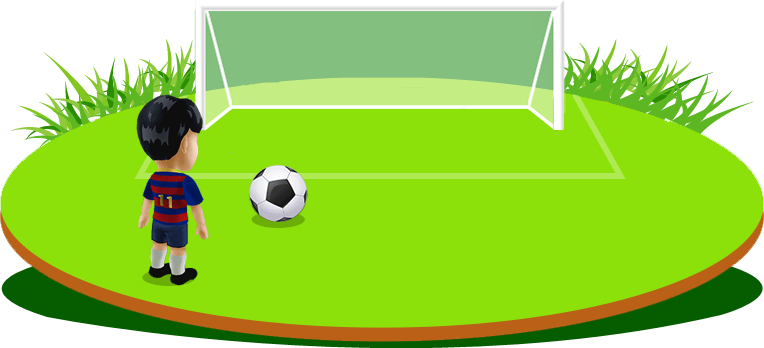
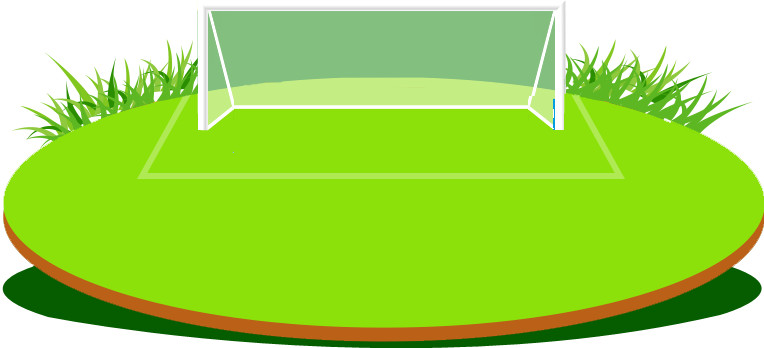
射门

diff --git a/worldCup.html b/worldCup.html
@@ -15,8 +15,17 @@
     <div class="common_w world-main-con">
         <div class="jiuqiu">
             <div style="position: relative;height: 100%">
+                <div class="jinqiu_shoot" style="display: block;">
+                    <img src="images/shootStart.png" alt="射门">
+                </div>
+                <!--<div class="jinqiu_shoot">-->
+                <!--<img src="images/shootJin.gif" alt="射门">-->
+                <!--</div>-->
+                <!--<div class="jinqiu_shoot">-->
+                <!--<img src="images/shootMeiJin.gif" alt="射门">-->
+                <!--</div>-->
                 <a href="javascript:void(0);" class="jinqiu_btn">
-                    <p>今日踢球剩余次数：3次</p>
+                    <p>今日踢球剩余次数：<span id="tiqiu_num">3</span>次</p>
                 </a>
             </div>
         </div>
@@ -210,6 +219,19 @@
         </ul>
     </div>
 </div>
+<div class="wrapper_layer" id="wrapper_layer">
+    <div class="wrapper">
+        <span class="close" id="close">×</span>
+        <div class="text-center  imgWrapper" style="margin-top: 10px;">
+            <img src="images/p_laugh.png" alt="">
+        </div>
+        <p class="text-center tips">恭喜你，球进了！</p>
+        <div class="user-operarion">
+            <a href="#" class="uo_btn">开始抽奖</a>
+            <a href="#" class="uo_btn">去下单</a>
+        </div>
+    </div>
+</div>
 <script>
     var mySwiper = new Swiper('.swiper-container', {
         autoplay: true,//可选选项，自动滑动
@@ -234,6 +256,70 @@
             prize_layer.hide()
         })
     })
+
+    $('#close').click(function () {
+        $(this).closest('#wrapper_layer').hide()
+    })
+
+    var goal_desc = [{text: '恭喜你，球进了！', imgUrl: 'images/p_laugh.png'}, {
+        text: '很遗憾，没有进球',
+        imgUrl: 'images/p_cry.png'
+    }];
+    // 点击踢球
+    $('.jinqiu_btn').click(function () {
+        // 获取踢球剩余次数
+        var tiqiu_num = $('#tiqiu_num').text();
+        if (tiqiu_num == 0) {
+            // 弹出提示显示
+            $('#tiqiu_num').text(tiqiu_num);
+            return false;
+        }
+        // 两种情况,进球和没进球的概率
+        var a = ['goal', 'no_goal'],
+            b = [0.3, 0.7],
+            is_goal = random(a, b);
+        imgReload();
+        if (is_goal == 'goal') {
+            $('.jinqiu_shoot').find('img').attr('src', 'images/shootJin.gif')
+            // 弹出进球提示框
+            setTimeout(function () {
+                $('#wrapper_layer').show().find('.imgWrapper img').attr('src', goal_desc[0].imgUrl)
+                    .end().find('.tips').text(goal_desc[0].text)
+            }, 1700)
+        } else {
+            $('.jinqiu_shoot').find('img').attr('src', 'images/shootMeiJin.gif')
+            // 弹出没进球提示框
+            setTimeout(function () {
+                $('#wrapper_layer').show().find('.imgWrapper img').attr('src', goal_desc[1].imgUrl)
+                    .end().find('.tips').text(goal_desc[1].text)
+            }, 1700)
+        }
+        tiqiu_num--;
+        $('#tiqiu_num').text(tiqiu_num);
+    })
+
+    function random(arr1, arr2) {
+        var sum = 0,
+            factor = 0,
+            random = Math.random();
+
+        for (var i = arr2.length - 1; i >= 0; i--) {
+            sum += arr2[i]; // 统计概率总和
+        }
+        random *= sum; // 生成概率随机数
+        for (var i = arr2.length - 1; i >= 0; i--) {
+            factor += arr2[i];
+            if (random <= factor)
+                return arr1[i];
+        }
+        return null;
+    }
+
+    function imgReload() {
+        var imgs = document.getElementsByTagName('img');
+        for (var i = 0; i < imgs.length; i++)
+            imgs[i].src = imgs[i].src;
+    }
 </script>
 </body>
 </html>

diff --git a/css/worldCup.css b/css/worldCup.css
@@ -1,7 +1,10 @@
 body {
   background: #7fc7f7; }
 
-.prize_layer, .rule_layer {
+.text-center {
+  text-align: center; }
+
+.prize_layer, .rule_layer, .wrapper_layer {
   display: none;
   width: 100%;
   height: 100%;
@@ -10,7 +13,54 @@ body {
   left: 0;
   right: 0;
   bottom: 0;
-  background: rgba(0, 0, 0, 0.3); }
+  background: rgba(0, 0, 0, 0.3);
+  z-index: 1; }
+
+.wrapper_layer .wrapper {
+  width: 400px;
+  padding: 10px;
+  border-radius: 10px;
+  background: #fff;
+  position: relative;
+  left: 50%;
+  top: 50%;
+  margin-left: -210px;
+  transform: translateY(-50%); }
+  .wrapper_layer .wrapper .user-operarion {
+    margin-bottom: 20px;
+    text-align: center; }
+    .wrapper_layer .wrapper .user-operarion .uo_btn {
+      display: inline-block;
+      font-size: 24px;
+      padding: 5px 40px;
+      border-radius: 24px;
+      background: #44980e;
+      box-shadow: 0px 5px 0px #317307;
+      color: #ffffff;
+      margin-left: 15px; }
+      .wrapper_layer .wrapper .user-operarion .uo_btn:first-child {
+        margin-left: 0;
+        background: #ffd923;
+        box-shadow: 0px 5px 0px #feb70b;
+        color: #564000; }
+  .wrapper_layer .wrapper .tips {
+    font-size: 24px;
+    color: #317307;
+    margin: 28px 0; }
+  .wrapper_layer .wrapper .close {
+    background: #317307;
+    font-size: 24px;
+    color: #fff;
+    border-radius: 50%;
+    display: inline-block;
+    width: 24px;
+    height: 24px;
+    line-height: 24px;
+    position: absolute;
+    right: 10px;
+    top: 10px;
+    cursor: pointer;
+    text-align: center; }
 
 .common_w {
   width: 1200px;
@@ -39,6 +89,11 @@ img {
       background: url("../images/jinqiu.png") no-repeat center;
       margin: 0 auto;
       margin-top: 58px; }
+      .world-main .world-main-con .jiuqiu .jinqiu_shoot {
+        display: none;
+        position: absolute;
+        top: -253px;
+        left: 12%; }
       .world-main .world-main-con .jiuqiu .jinqiu_btn {
         position: absolute;
         display: block;

diff --git a/scss/worldCup.scss b/scss/worldCup.scss
@@ -4,8 +4,10 @@ $detailTextColor: #999;
 body {
   background: $bgColor;
 }
-
-.prize_layer, .rule_layer {
+.text-center{
+  text-align: center;
+}
+.prize_layer, .rule_layer,.wrapper_layer {
   display: none;
   width: 100%;
   height: 100%;
@@ -15,8 +17,62 @@ body {
   right: 0;
   bottom: 0;
   background: rgba(0, 0, 0, .3);
+  z-index: 1;
 }
-
+.wrapper_layer{
+  .wrapper{
+    width: 400px;
+    padding: 10px;
+    border-radius: 10px;
+    background: #fff;
+    position: relative;
+    left: 50%;
+    top:50%;
+    margin-left: -210px;
+    //margin-top: -162px;
+    transform: translateY(-50%);
+    .user-operarion{
+      margin-bottom: 20px;
+      text-align: center;
+      .uo_btn{
+        display: inline-block;
+        font-size: 24px;
+        padding: 5px 40px;
+        border-radius: 24px;
+        background: #44980e;
+        box-shadow: 0px 5px 0px #317307;
+        color: #ffffff;
+        margin-left: 15px;
+        &:first-child{
+          margin-left:0;
+          background: #ffd923;
+          box-shadow: 0px 5px 0px #feb70b;
+          color: #564000;
+        }
+      }
+    }
+    .tips{
+      font-size: 24px;
+      color: $greenColor;
+      margin: 28px 0;
+    }
+    .close{
+      background: #317307;
+      font-size: 24px;
+      color: #fff;
+      border-radius: 50%;
+      display: inline-block;
+      width: 24px;
+      height: 24px;
+      line-height: 24px;
+      position: absolute;
+      right: 10px;
+      top:10px;
+      cursor: pointer;
+      text-align: center;
+    }
+  }
+}
 .common_w {
   width: 1200px;
   margin: 0 auto;
@@ -47,6 +103,12 @@ img {
       background: url("../images/jinqiu.png") no-repeat center;
       margin: 0 auto;
       margin-top: 58px;
+      .jinqiu_shoot{
+        display: none;
+        position: absolute;
+        top: -253px;
+        left: 12%;
+      }
       .jinqiu_btn {
         position: absolute;
         display: block;
